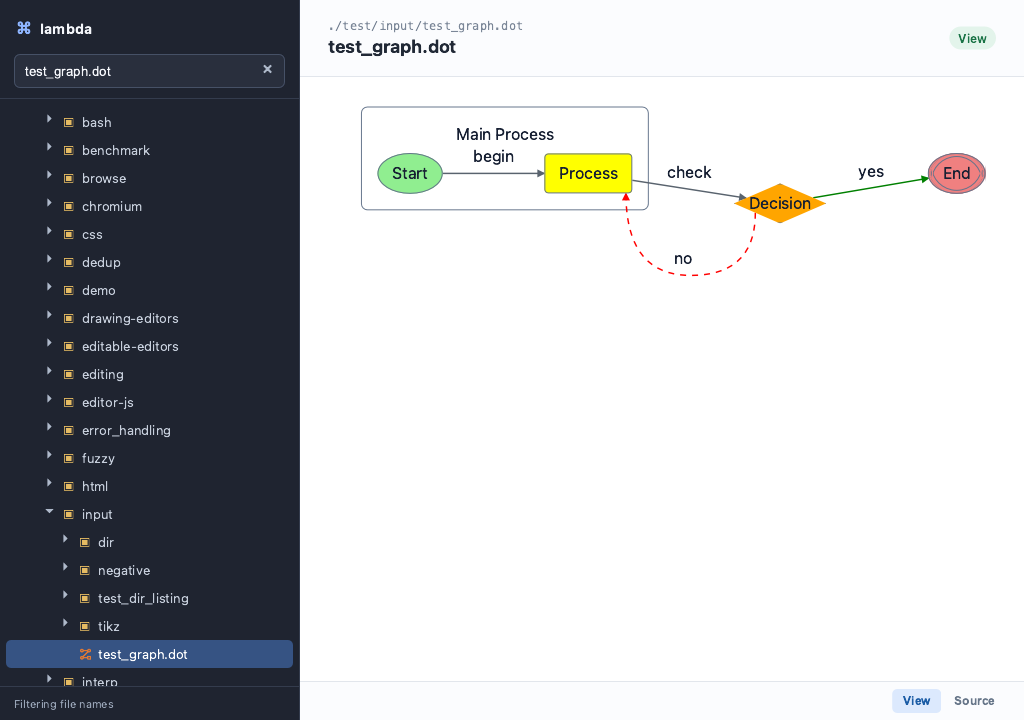
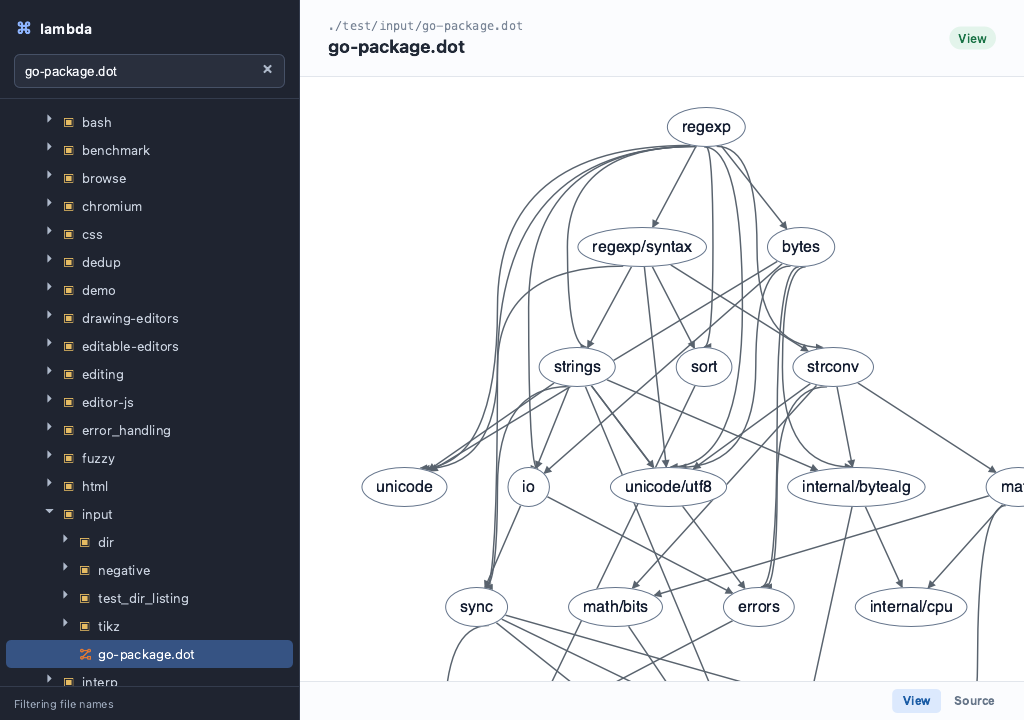
demo update

diff --git a/doc/demo.md b/doc/demo.md
@@ -1,48 +1,19 @@
 # Lambda Demo — Document Viewer
 
-The Lambda demo is a document viewer written in Lambda. It is a reactive Lambda
-UI ([`test/ui/doc_viewer.ls`](../test/ui/doc_viewer.ls)) that runs on the Radiant
-HTML/CSS layout engine. It lists the files of a project in a tree and shows the
-selected file as a rendered document, a property tree, a table or its source.
-Every format is parsed into the same Lambda/Mark data model and rendered by the
-same engine.
-
 ## Running the demo
 
 From the root of a Lambda checkout or of an unzipped release:
 
 ```bash
-./lambda.exe demo
-```
-
-`demo` is short for `lambda view test/ui/doc_viewer.html`. It opens a window
-with the animated startup splash. The splash loads the viewer in the background
-and hands over to it after about two seconds.
-
-To skip the splash and open the viewer directly:
-
-```bash
-./lambda.exe view
-```
-
-With no file argument, `view` opens `test/ui/doc_viewer.ls`. The file tree is
-rooted at the current working directory, so run the command from the folder you
-want to browse.
-
-To open a single document in its own window, without the file browser:
-
-```bash
-./lambda.exe view README.md
+./lambda demo
 ```
 
 ## Viewer features
 
 - **Project tree.** Folders load only when you open them, so large worktrees open
   quickly. Folders are listed before files, and each file has an icon for its
-  type. Dot files, `build*`/`release*` output folders and `*.exe` binaries are
-  hidden.
-- **File-name filter.** Type in the filter box to narrow the tree to matching
-  file names. Opened folders stay open. Press `Esc` or click ✕ to clear it.
+  type.
+
 - **View / Source tabs.** A file that can be rendered opens in the **View** tab.
   **Source** shows the raw text of the same file. Any other file (Lambda scripts,
   C++, logs, …) opens as plain source.
@@ -68,9 +39,6 @@ To open a single document in its own window, without the file browser:
   bodies inside multipart messages are rendered.
 - **Tables.** CSV and TSV files open as tables. You can drag a column edge to
   resize the column, and long files load more rows on request.
-- **Scripted testing.** The whole UI can be driven headlessly with
-  `--event-file` scripts (clicks, typing, assertions, `render` to PNG). The
-  snapshots below were captured that way.
 
 ## Snapshots
 
@@ -99,13 +67,13 @@ open it at full size.
 <td width="33%" align="center"><a href="img/demo/latex.png"><img src="img/demo/latex.png" alt="LaTeX"></a><br><sub><b>LaTeX</b> — <code>.tex</code> with a table of contents</sub></td>
 </tr>
 <tr>
-<td width="33%" align="center"><a href="img/demo/pdf.png"><img src="img/demo/pdf.png" alt="PDF"></a><br><sub><b>PDF</b> — converted to HTML</sub></td>
+<td width="33%" align="center"><a href="img/demo/pdf.png"><img src="img/demo/pdf.png" alt="PDF"></a><br><sub><b>PDF</b> — Get_Started_With_Smallpdf.pdf converted to HTML</sub></td>
 <td width="33%" align="center"><a href="img/demo/eml.png"><img src="img/demo/eml.png" alt="Email"></a><br><sub><b>Email</b> — <code>.eml</code> headers and HTML body</sub></td>
 <td width="33%" align="center"><a href="img/demo/tikz.png"><img src="img/demo/tikz.png" alt="TikZ / PGF"></a><br><sub><b>TikZ / PGF</b> — PGFPlots log-axis plot</sub></td>
 </tr>
 <tr>
-<td width="33%" align="center"><a href="img/demo/mermaid.png"><img src="img/demo/mermaid.png" alt="Mermaid"></a><br><sub><b>Mermaid</b> — <code>.mmd</code> flowchart</sub></td>
-<td width="33%" align="center"><a href="img/demo/dot.png"><img src="img/demo/dot.png" alt="Graphviz DOT"></a><br><sub><b>Graphviz</b> — <code>.dot</code> with clusters and styled edges</sub></td>
+<td width="33%" align="center"><a href="img/demo/mermaid.png"><img src="img/demo/mermaid.png" alt="Mermaid"></a><br><sub><b>Mermaid</b> — <code>.mmd</code> sequence diagram</sub></td>
+<td width="33%" align="center"><a href="img/demo/dot.png"><img src="img/demo/dot.png" alt="Graphviz DOT"></a><br><sub><b>Graphviz</b> — <code>.dot</code> Go package dependency graph</sub></td>
 <td width="33%" align="center"><a href="img/demo/d2.png"><img src="img/demo/d2.png" alt="D2"></a><br><sub><b>D2</b> — <code>.d2</code> system diagram</sub></td>
 </tr>
 <tr>
